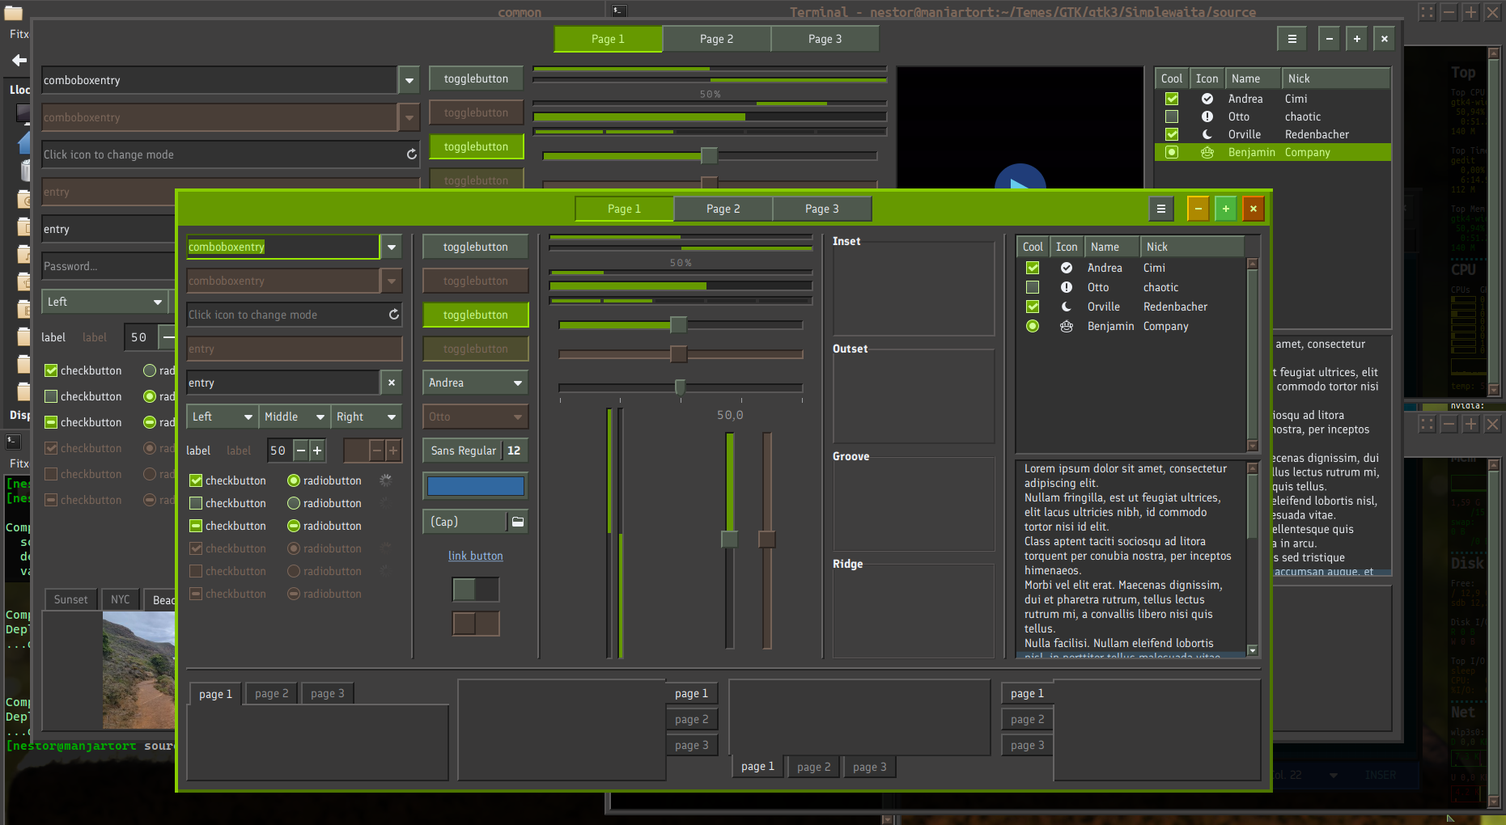
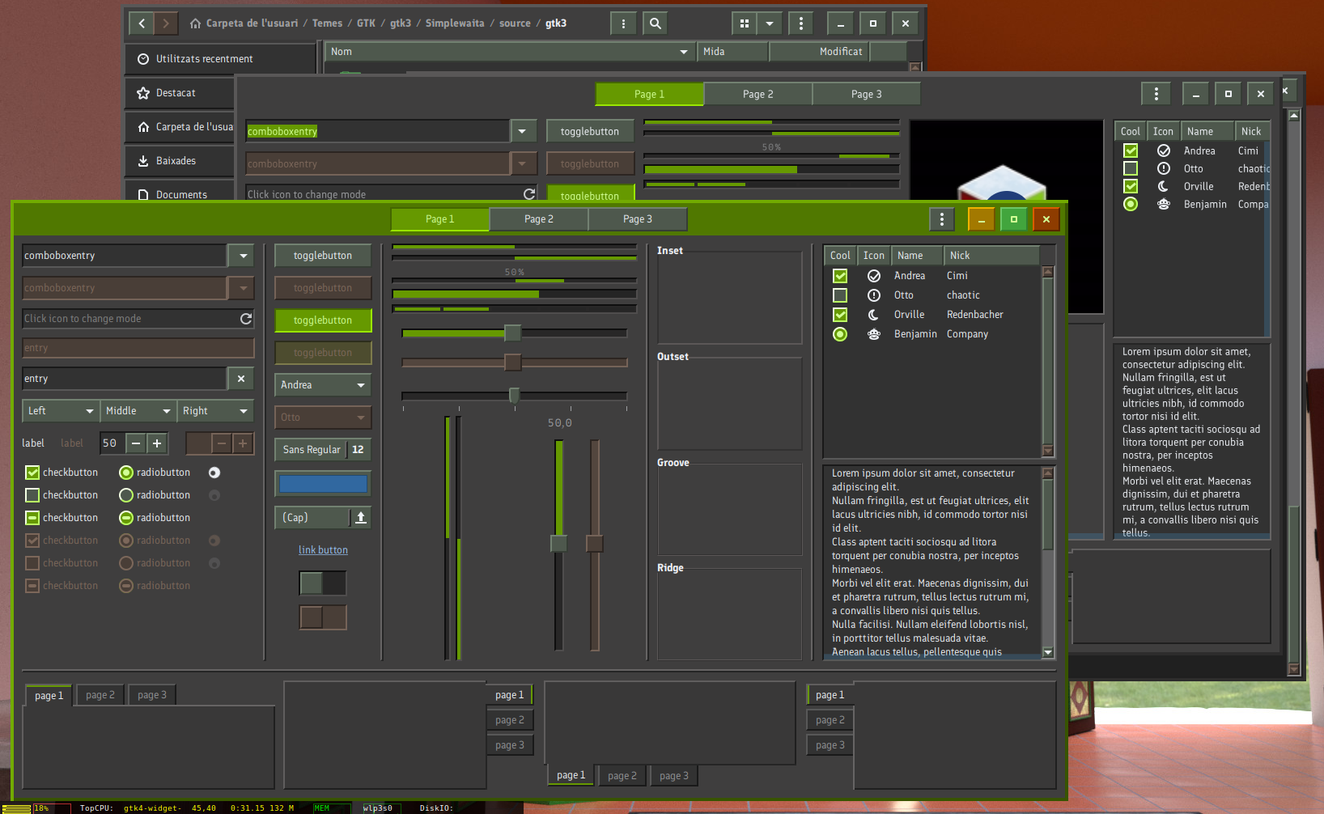
Fixed selection issues in gtk4

diff --git a/gtk-4.0/gtk.css b/gtk-4.0/gtk.css
@@ -8,11 +8,13 @@ $selected_bg_color: if($variant == 'light', #3584e4, darken(#3584e4, 20%));*/
 /*Usually an automatic fg color on these backgrounds should check this value!*/
 /*************************** Check and Radio buttons * */
 /*************************** Check and Radio buttons * */
-calendar > grid > label.day-number:selected, row:selected, columnview.view:selected:focus, columnview.view:selected, treeview.view:selected:focus, treeview.view:selected, modelbutton.flat:selected, gridview > child:selected, flowbox > flowboxchild:selected, .view:selected:focus, iconview:selected:focus, .view:selected, iconview:selected, textview > text:selected:focus, textview > text:selected { background-color: #669900; }
+calendar > grid > label.day-number:selected, row:selected, columnview.view:selected:focus, columnview.view:selected, treeview.view:selected:focus, treeview.view:selected, modelbutton.flat:selected, gridview > child:selected, flowbox > flowboxchild:selected, .view:selected:focus, iconview:selected:focus, .view:selected, iconview:selected, textview > text:selected:focus, textview > text:selected { background-color: #669900; color: #d1ff96; }
 
 label:selected, calendar > grid > label.day-number:selected, row:selected, columnview.view:selected:focus, columnview.view:selected, treeview.view:selected:focus, treeview.view:selected, modelbutton.flat:selected, gridview > child:selected, flowbox > flowboxchild:selected, .view:selected:focus, iconview:selected:focus, .view:selected, iconview:selected, textview > text:selected:focus, textview > text:selected { color: #d1ff96; }
 
 label:disabled > selection, label:disabled:selected, calendar > grid > label.day-number:disabled:selected, row:disabled:selected, columnview.view:disabled:selected, treeview.view:disabled:selected, modelbutton.flat:disabled:selected, gridview > child:disabled:selected, flowbox > flowboxchild:disabled:selected, .view:disabled:selected, iconview:disabled:selected, textview > text:disabled:selected { color: #9ccc4b; }
+
+label:backdrop:selected, calendar > grid > label.day-number:backdrop:selected, row:backdrop:selected, columnview.view:backdrop:selected, treeview.view:backdrop:selected, modelbutton.flat:backdrop:selected, gridview > child:backdrop:selected, flowbox > flowboxchild:backdrop:selected, .view:backdrop:selected, iconview:backdrop:selected, textview > text:backdrop:selected { color: #d1ff96; background-color: #669900; }
 
 /*************** Base States * */
 .background { color: #EDF0F5; background-color: #3f3e3e; }
@@ -33,9 +35,9 @@ image:disabled { -gtk-icon-filter: opacity(0.5); }
 
 textview > text { background-color: transparent; }
 
-textview > text > selection { background-color: #669900; }
+textview > text > selection { background-color: #669900; color: #d1ff96; }
 
-textview > text > selection:focus-within { background-color: rgba(102, 153, 0, 0.3); }
+textview > text > selection:focus-within { background-color: #669900; color: #d1ff96; }
 
 textview:drop(active) { caret-color: #33d17a; }
 
@@ -81,7 +83,7 @@ label:focus:focus-visible { outline-color: rgba(102, 153, 0, 0.5); outline-width
 
 label > selection { background-color: #669900; color: #d1ff96; }
 
-label > selection:focus-within { background-color: rgba(102, 153, 0, 0.3); }
+label > selection:focus-within { background-color: #669900; color: #d1ff96; }
 
 label:disabled { color: #7c675a; }
 
@@ -155,6 +157,8 @@ spinbutton.vertical > text:focus-within > placeholder, spinbutton:focus-within:n
 spinbutton.vertical > text:disabled, spinbutton:disabled:not(.vertical), entry:disabled { color: #7c675a; background-color: #493e37; border-left-color: #2c2521; border-top-color: #2c2521; border-right-color: #756358; border-bottom-color: #756358; }
 
 spinbutton.vertical > text > text > selection, spinbutton:not(.vertical) > text > selection, entry > text > selection { background-color: #669900; color: #d1ff96; }
+
+spinbutton.vertical > text > text > selection:focus-within, spinbutton:not(.vertical) > text > selection:focus-within, entry > text > selection:focus-within { background-color: #669900; color: #d1ff96; }
 
 spinbutton.vertical > text.error, spinbutton.error:not(.vertical), entry.error { color: #CC0000; transition-property: outline, outline-width, outline-offset, outline-color; transition-duration: 300ms; animation-timing-function: ease-in-out; }
 
@@ -250,8 +254,6 @@ row:selected button { border-color: #334d00; }
 
 row:selected button.sidebar-button:not(:active):not(:checked):not(:hover):not(disabled), row:selected button.flat:not(:active):not(:checked):not(:hover):not(disabled) { color: #d1ff96; border-color: transparent; }
 
-row:selected button.sidebar-button:not(:active):not(:checked):not(:hover):not(disabled):backdrop, row:selected button.flat:not(:active):not(:checked):not(:hover):not(disabled):backdrop { color: #323232; }
-
 button.osd { min-width: 26px; min-height: 32px; color: #66cbec; border-radius: 5px; border-width: 2px; color: #66cbec; background-color: #203d79; border-left-color: #305cb6; border-top-color: #305cb6; border-right-color: #152951; border-bottom-color: #152951; box-shadow: none; }
 
 button.osd.image-button { min-width: 30px; }
@@ -338,7 +340,7 @@ button.font > box { border-spacing: 6px; }
 
 button.font > box > box > label { font-weight: bold; }
 
-menubutton.circular button, button.circular { min-width: 32px; min-height: 32px; padding: 0; border-radius: 9999px; }
+menubutton.circular button, button.circular { min-width: 1.6em; min-height: 1.6em; padding: 0; border-radius: 9999px; }
 
 menubutton.circular button label, button.circular label { padding: 0; }
 
@@ -444,9 +446,7 @@ spinbutton.vertical:drop(active) { border-color: transparent; box-shadow: none; 
 
 spinbutton.vertical > text { min-height: 1.6em; min-width: 1.6em; padding: 0; border-radius: 0; }
 
-spinbutton.vertical > text > selection { background-color: #669900; color: transparent; }
-
-spinbutton.vertical > text > selection:focus-within { background-color: rgba(102, 153, 0, 0.3); color: #d1ff96; }
+spinbutton.vertical > text > selection { background-color: #669900; color: #d1ff96; }
 
 spinbutton.vertical > text > block-cursor { color: #323232; background-color: #EDF0F5; }
 
@@ -1220,9 +1220,9 @@ columnview row:not(:selected) cell editablelabel:not(.editing):focus-within { ou
 
 columnview row:not(:selected) cell editablelabel.editing:focus-within { outline: 2px solid #669900; }
 
-columnview row:not(:selected) cell editablelabel.editing text selection { background-color: #669900; color: transparent; }
+columnview row:not(:selected) cell editablelabel.editing text selection { background-color: #669900; color: #d1ff96; }
 
-columnview row:not(:selected) cell editablelabel.editing text selection:focus-within { background-color: rgba(102, 153, 0, 0.3); color: #EDF0F5; }
+columnview row:not(:selected) cell editablelabel.editing text selection:focus-within { background-color: #669900; color: #d1ff96; }
 
 /******************************************************* Rich Lists                                          * Large list usually containing lots of widgets       * https://gitlab.gnome.org/GNOME/gtk/-/issues/3073    * */
 .rich-list { /* rich lists usually containing other widgets than just labels/text */ }

diff --git a/source/gtk4/gtk-new.css b/source/gtk4/gtk-new.css
@@ -8,11 +8,13 @@ $selected_bg_color: if($variant == 'light', #3584e4, darken(#3584e4, 20%));*/
 /*Usually an automatic fg color on these backgrounds should check this value!*/
 /*************************** Check and Radio buttons * */
 /*************************** Check and Radio buttons * */
-calendar > grid > label.day-number:selected, row:selected, columnview.view:selected:focus, columnview.view:selected, treeview.view:selected:focus, treeview.view:selected, modelbutton.flat:selected, gridview > child:selected, flowbox > flowboxchild:selected, .view:selected:focus, iconview:selected:focus, .view:selected, iconview:selected, textview > text:selected:focus, textview > text:selected { background-color: #669900; }
+calendar > grid > label.day-number:selected, row:selected, columnview.view:selected:focus, columnview.view:selected, treeview.view:selected:focus, treeview.view:selected, modelbutton.flat:selected, gridview > child:selected, flowbox > flowboxchild:selected, .view:selected:focus, iconview:selected:focus, .view:selected, iconview:selected, textview > text:selected:focus, textview > text:selected { background-color: #669900; color: #d1ff96; }
 
 label:selected, calendar > grid > label.day-number:selected, row:selected, columnview.view:selected:focus, columnview.view:selected, treeview.view:selected:focus, treeview.view:selected, modelbutton.flat:selected, gridview > child:selected, flowbox > flowboxchild:selected, .view:selected:focus, iconview:selected:focus, .view:selected, iconview:selected, textview > text:selected:focus, textview > text:selected { color: #d1ff96; }
 
 label:disabled > selection, label:disabled:selected, calendar > grid > label.day-number:disabled:selected, row:disabled:selected, columnview.view:disabled:selected, treeview.view:disabled:selected, modelbutton.flat:disabled:selected, gridview > child:disabled:selected, flowbox > flowboxchild:disabled:selected, .view:disabled:selected, iconview:disabled:selected, textview > text:disabled:selected { color: #9ccc4b; }
+
+label:backdrop:selected, calendar > grid > label.day-number:backdrop:selected, row:backdrop:selected, columnview.view:backdrop:selected, treeview.view:backdrop:selected, modelbutton.flat:backdrop:selected, gridview > child:backdrop:selected, flowbox > flowboxchild:backdrop:selected, .view:backdrop:selected, iconview:backdrop:selected, textview > text:backdrop:selected { color: #d1ff96; background-color: #669900; }
 
 /*************** Base States * */
 .background { color: #EDF0F5; background-color: #3f3e3e; }
@@ -33,9 +35,9 @@ image:disabled { -gtk-icon-filter: opacity(0.5); }
 
 textview > text { background-color: transparent; }
 
-textview > text > selection { background-color: #669900; }
+textview > text > selection { background-color: #669900; color: #d1ff96; }
 
-textview > text > selection:focus-within { background-color: rgba(102, 153, 0, 0.3); }
+textview > text > selection:focus-within { background-color: #669900; color: #d1ff96; }
 
 textview:drop(active) { caret-color: #33d17a; }
 
@@ -81,7 +83,7 @@ label:focus:focus-visible { outline-color: rgba(102, 153, 0, 0.5); outline-width
 
 label > selection { background-color: #669900; color: #d1ff96; }
 
-label > selection:focus-within { background-color: rgba(102, 153, 0, 0.3); }
+label > selection:focus-within { background-color: #669900; color: #d1ff96; }
 
 label:disabled { color: #7c675a; }
 
@@ -155,6 +157,8 @@ spinbutton.vertical > text:focus-within > placeholder, spinbutton:focus-within:n
 spinbutton.vertical > text:disabled, spinbutton:disabled:not(.vertical), entry:disabled { color: #7c675a; background-color: #493e37; border-left-color: #2c2521; border-top-color: #2c2521; border-right-color: #756358; border-bottom-color: #756358; }
 
 spinbutton.vertical > text > text > selection, spinbutton:not(.vertical) > text > selection, entry > text > selection { background-color: #669900; color: #d1ff96; }
+
+spinbutton.vertical > text > text > selection:focus-within, spinbutton:not(.vertical) > text > selection:focus-within, entry > text > selection:focus-within { background-color: #669900; color: #d1ff96; }
 
 spinbutton.vertical > text.error, spinbutton.error:not(.vertical), entry.error { color: #CC0000; transition-property: outline, outline-width, outline-offset, outline-color; transition-duration: 300ms; animation-timing-function: ease-in-out; }
 
@@ -250,8 +254,6 @@ row:selected button { border-color: #334d00; }
 
 row:selected button.sidebar-button:not(:active):not(:checked):not(:hover):not(disabled), row:selected button.flat:not(:active):not(:checked):not(:hover):not(disabled) { color: #d1ff96; border-color: transparent; }
 
-row:selected button.sidebar-button:not(:active):not(:checked):not(:hover):not(disabled):backdrop, row:selected button.flat:not(:active):not(:checked):not(:hover):not(disabled):backdrop { color: #323232; }
-
 button.osd { min-width: 26px; min-height: 32px; color: #66cbec; border-radius: 5px; border-width: 2px; color: #66cbec; background-color: #203d79; border-left-color: #305cb6; border-top-color: #305cb6; border-right-color: #152951; border-bottom-color: #152951; box-shadow: none; }
 
 button.osd.image-button { min-width: 30px; }
@@ -338,7 +340,7 @@ button.font > box { border-spacing: 6px; }
 
 button.font > box > box > label { font-weight: bold; }
 
-menubutton.circular button, button.circular { min-width: 32px; min-height: 32px; padding: 0; border-radius: 9999px; }
+menubutton.circular button, button.circular { min-width: 1.6em; min-height: 1.6em; padding: 0; border-radius: 9999px; }
 
 menubutton.circular button label, button.circular label { padding: 0; }
 
@@ -444,9 +446,7 @@ spinbutton.vertical:drop(active) { border-color: transparent; box-shadow: none; 
 
 spinbutton.vertical > text { min-height: 1.6em; min-width: 1.6em; padding: 0; border-radius: 0; }
 
-spinbutton.vertical > text > selection { background-color: #669900; color: transparent; }
-
-spinbutton.vertical > text > selection:focus-within { background-color: rgba(102, 153, 0, 0.3); color: #d1ff96; }
+spinbutton.vertical > text > selection { background-color: #669900; color: #d1ff96; }
 
 spinbutton.vertical > text > block-cursor { color: #323232; background-color: #EDF0F5; }
 
@@ -1220,9 +1220,9 @@ columnview row:not(:selected) cell editablelabel:not(.editing):focus-within { ou
 
 columnview row:not(:selected) cell editablelabel.editing:focus-within { outline: 2px solid #669900; }
 
-columnview row:not(:selected) cell editablelabel.editing text selection { background-color: #669900; color: transparent; }
+columnview row:not(:selected) cell editablelabel.editing text selection { background-color: #669900; color: #d1ff96; }
 
-columnview row:not(:selected) cell editablelabel.editing text selection:focus-within { background-color: rgba(102, 153, 0, 0.3); color: #EDF0F5; }
+columnview row:not(:selected) cell editablelabel.editing text selection:focus-within { background-color: #669900; color: #d1ff96; }
 
 /******************************************************* Rich Lists                                          * Large list usually containing lots of widgets       * https://gitlab.gnome.org/GNOME/gtk/-/issues/3073    * */
 .rich-list { /* rich lists usually containing other widgets than just labels/text */ }

diff --git a/gtk-3.0/gtk.css b/gtk-3.0/gtk.css
@@ -1,11 +1,13 @@
 /*Usually an automatic fg color on these backgrounds should check this value!*/
 /*************************** Check and Radio buttons * */
 /*************************** Check and Radio buttons * */
-calendar:selected, row:selected, treeview.view:selected:focus, treeview.view:selected, modelbutton.flat:selected, .menuitem.button.flat:selected, spinbutton:not(.vertical) selection, entry selection, flowbox flowboxchild:selected, .view text selection:focus, iconview text selection:focus, .view text selection, iconview text selection, textview text selection:focus, textview text selection, .view:selected:focus, iconview:selected:focus, .view:selected, iconview:selected, .view text:selected:focus, iconview text:selected:focus, textview text:selected:focus, .view text:selected, iconview text:selected, textview text:selected { background-color: #669900; }
+calendar:selected, row:selected, treeview.view:selected:focus, treeview.view:selected, modelbutton.flat:selected, .menuitem.button.flat:selected, spinbutton:not(.vertical) selection, entry selection, flowbox flowboxchild:selected, .view text selection:focus, iconview text selection:focus, .view text selection, iconview text selection, textview text selection:focus, textview text selection, .view:selected:focus, iconview:selected:focus, .view:selected, iconview:selected, .view text:selected:focus, iconview text:selected:focus, textview text:selected:focus, .view text:selected, iconview text:selected, textview text:selected { background-color: #669900; color: #d1ff96; }
 
 .selection-mode button.titlebutton, label:selected, calendar:selected, row:selected, treeview.view:selected:focus, treeview.view:selected, modelbutton.flat:selected, .menuitem.button.flat:selected, spinbutton:not(.vertical) selection, entry selection, flowbox flowboxchild:selected, .view text selection:focus, iconview text selection:focus, .view text selection, iconview text selection, textview text selection:focus, textview text selection, .view:selected:focus, iconview:selected:focus, .view:selected, iconview:selected, .view text:selected:focus, iconview text:selected:focus, textview text:selected:focus, .view text:selected, iconview text:selected, textview text:selected { color: #d1ff96; }
 
 label:disabled selection, .selection-mode button.titlebutton:disabled, label:disabled:selected, calendar:disabled:selected, row:disabled:selected, treeview.view:disabled:selected, modelbutton.flat:disabled:selected, .menuitem.button.flat:disabled:selected, spinbutton:not(.vertical) selection:disabled, entry selection:disabled, flowbox flowboxchild:disabled:selected, .view text selection:disabled, iconview text selection:disabled, textview text selection:disabled:focus, textview text selection:disabled, .view:disabled:selected, iconview:disabled:selected, .view text:disabled:selected, iconview text:disabled:selected, textview text:disabled:selected { color: #9ccc4b; }
+
+.selection-mode button.titlebutton:backdrop, label:backdrop:selected, calendar:backdrop:selected, row:backdrop:selected, treeview.view:backdrop:selected, modelbutton.flat:backdrop:selected, .menuitem.button.flat:backdrop:selected, spinbutton:not(.vertical) selection:backdrop, entry selection:backdrop, flowbox flowboxchild:backdrop:selected, .view text selection:backdrop, iconview text selection:backdrop, textview text selection:backdrop:focus, textview text selection:backdrop, .view:backdrop:selected, iconview:backdrop:selected, .view text:backdrop:selected, iconview text:backdrop:selected, textview text:backdrop:selected { color: #d1ff96; background-color: #669900; }
 
 * { padding: 0; -GtkToolButton-icon-spacing: 4; -GtkTextView-error-underline-color: #CC0000; -GtkScrolledWindow-scrollbar-spacing: 0; -GtkToolItemGroup-expander-size: 11; -GtkWidget-text-handle-width: 20; -GtkWidget-text-handle-height: 24; -GtkDialog-button-spacing: 4; -GtkDialog-action-area-border: 0; outline-color: alpha(currentColor,0.3); outline-style: dashed; outline-offset: -3px; outline-width: 1px; -gtk-outline-radius: 0px; -gtk-secondary-caret-color: #669900; }
 

diff --git a/source/gtk3/gtk-new.css b/source/gtk3/gtk-new.css
@@ -1,11 +1,13 @@
 /*Usually an automatic fg color on these backgrounds should check this value!*/
 /*************************** Check and Radio buttons * */
 /*************************** Check and Radio buttons * */
-calendar:selected, row:selected, treeview.view:selected:focus, treeview.view:selected, modelbutton.flat:selected, .menuitem.button.flat:selected, spinbutton:not(.vertical) selection, entry selection, flowbox flowboxchild:selected, .view text selection:focus, iconview text selection:focus, .view text selection, iconview text selection, textview text selection:focus, textview text selection, .view:selected:focus, iconview:selected:focus, .view:selected, iconview:selected, .view text:selected:focus, iconview text:selected:focus, textview text:selected:focus, .view text:selected, iconview text:selected, textview text:selected { background-color: #669900; }
+calendar:selected, row:selected, treeview.view:selected:focus, treeview.view:selected, modelbutton.flat:selected, .menuitem.button.flat:selected, spinbutton:not(.vertical) selection, entry selection, flowbox flowboxchild:selected, .view text selection:focus, iconview text selection:focus, .view text selection, iconview text selection, textview text selection:focus, textview text selection, .view:selected:focus, iconview:selected:focus, .view:selected, iconview:selected, .view text:selected:focus, iconview text:selected:focus, textview text:selected:focus, .view text:selected, iconview text:selected, textview text:selected { background-color: #669900; color: #d1ff96; }
 
 .selection-mode button.titlebutton, label:selected, calendar:selected, row:selected, treeview.view:selected:focus, treeview.view:selected, modelbutton.flat:selected, .menuitem.button.flat:selected, spinbutton:not(.vertical) selection, entry selection, flowbox flowboxchild:selected, .view text selection:focus, iconview text selection:focus, .view text selection, iconview text selection, textview text selection:focus, textview text selection, .view:selected:focus, iconview:selected:focus, .view:selected, iconview:selected, .view text:selected:focus, iconview text:selected:focus, textview text:selected:focus, .view text:selected, iconview text:selected, textview text:selected { color: #d1ff96; }
 
 label:disabled selection, .selection-mode button.titlebutton:disabled, label:disabled:selected, calendar:disabled:selected, row:disabled:selected, treeview.view:disabled:selected, modelbutton.flat:disabled:selected, .menuitem.button.flat:disabled:selected, spinbutton:not(.vertical) selection:disabled, entry selection:disabled, flowbox flowboxchild:disabled:selected, .view text selection:disabled, iconview text selection:disabled, textview text selection:disabled:focus, textview text selection:disabled, .view:disabled:selected, iconview:disabled:selected, .view text:disabled:selected, iconview text:disabled:selected, textview text:disabled:selected { color: #9ccc4b; }
+
+.selection-mode button.titlebutton:backdrop, label:backdrop:selected, calendar:backdrop:selected, row:backdrop:selected, treeview.view:backdrop:selected, modelbutton.flat:backdrop:selected, .menuitem.button.flat:backdrop:selected, spinbutton:not(.vertical) selection:backdrop, entry selection:backdrop, flowbox flowboxchild:backdrop:selected, .view text selection:backdrop, iconview text selection:backdrop, textview text selection:backdrop:focus, textview text selection:backdrop, .view:backdrop:selected, iconview:backdrop:selected, .view text:backdrop:selected, iconview text:backdrop:selected, textview text:backdrop:selected { color: #d1ff96; background-color: #669900; }
 
 * { padding: 0; -GtkToolButton-icon-spacing: 4; -GtkTextView-error-underline-color: #CC0000; -GtkScrolledWindow-scrollbar-spacing: 0; -GtkToolItemGroup-expander-size: 11; -GtkWidget-text-handle-width: 20; -GtkWidget-text-handle-height: 24; -GtkDialog-button-spacing: 4; -GtkDialog-action-area-border: 0; outline-color: alpha(currentColor,0.3); outline-style: dashed; outline-offset: -3px; outline-width: 1px; -gtk-outline-radius: 0px; -gtk-secondary-caret-color: #669900; }
 

diff --git a/source/gtk4/_common.scss b/source/gtk4/_common.scss
@@ -61,10 +61,12 @@ textview {
     background-color: transparent;
 
     > selection {
-      background-color: $backdrop_selected_bg_color;
+      background-color: $selected_bg_color;
+      color: $selected_fg_color;
 
       &:focus-within {
-         background-color: $selected_text_bg_color;
+         background-color: $selected_bg_color;
+         color: $selected_fg_color;
       }
     }
   }
@@ -152,10 +154,11 @@ label {
   &:selected { @extend %nobg_selected_items; }
 
   > selection {
-    background-color: $backdrop_selected_bg_color;
+    background-color: $selected_bg_color;
     color: $selected_fg_color;
     &:focus-within {
-       background-color: $selected_text_bg_color;
+       background-color: $selected_bg_color;
+       color: $selected_fg_color;
     }
   }
 
@@ -326,8 +329,8 @@ entry {
       background-color: $selected_bg_color;
       color: $selected_fg_color;
       &:focus-within {
-        //background-color: $selected_text_bg_color;
-        //color: $fg_color;
+        background-color: $selected_bg_color;
+        color: $selected_fg_color;
       }
     }
 
@@ -547,7 +550,7 @@ button {
           color: $selected_fg_color;
           border-color: transparent;
 
-          &:backdrop { color: if($variant=='light', $backdrop_base_color, $backdrop_fg_color); }
+          //&:backdrop { color: if($variant=='light', $backdrop_base_color, $backdrop_fg_color); }
         }
       }
     }
@@ -706,8 +709,8 @@ button {
 
   menubutton.circular &,
   &.circular { // force circular button shape
-    min-width: 32px;
-    min-height: 32px;
+    min-width: $button_min_height;
+    min-height: $button_min_height;
     padding: 0;
     border-radius: 9999px;
 
@@ -1074,12 +1077,12 @@ spinbutton {
       border-radius: 0;
 
       > selection {
-        background-color: $backdrop_selected_bg_color;
-        color: transparent;
-        &:focus-within {
-          background-color: $selected_text_bg_color;
-          color: $selected_fg_color;
-        }
+        background-color: $selected_bg_color;
+        color: $selected_fg_color;
+        //&:focus-within {
+        //  background-color: $selected_text_bg_color;
+        //  color: $selected_fg_color;
+        //}
       }
       > block-cursor { @include entry(block_cursor); }
     }
@@ -2837,11 +2840,11 @@ columnview row:not(:selected) cell editablelabel.editing:focus-within {
 }
 
 columnview row:not(:selected) cell editablelabel.editing text selection {
-  background-color: $backdrop_selected_bg_color;
-  color: transparent;
+  background-color: $selected_bg_color;
+  color: $selected_fg_color;
   &:focus-within {
-    background-color: $selected_text_bg_color;
-    color: $fg_color;
+    background-color: $selected_bg_color;
+    color: $selected_fg_color;
   }
 }
 

diff --git a/source/common/common_common.scss b/source/common/common_common.scss
@@ -38,7 +38,7 @@ $popover_radius: $window_radius;
 
 %selected_items {
   background-color: $selected_bg_color;
-
+  color: $selected_fg_color;
   @at-root %nobg_selected_items, & {
     color: $selected_fg_color;
 
@@ -46,9 +46,11 @@ $popover_radius: $window_radius;
     &:disabled { color: mix($selected_fg_color, $selected_bg_color, 50%); }
 
     @at-root %selected_items_backdrop,
-    &:backdrop { //Simplewaita does not like backdrop changes except for headerbar and window decoration
-      //color: $backdrop_selected_fg_color;
-      //background-color: $backdrop_selected_bg_color;
+    &:backdrop { 
+      //Simplewaita does not like backdrop changes except for headerbar and window decoration
+      //however, some problems may arise if this is not applied.
+      color: $selected_fg_color;
+      background-color: $selected_bg_color;
 
       //&:disabled { color: mix($backdrop_selected_fg_color, $selected_bg_color, 30%); }
     }

diff --git a/README.md b/README.md
@@ -36,7 +36,7 @@ Big previews:
 
 ![gtk3 widget page 2](previews/gtk3wf-2.png)
 
-![gtk3 widget page 3](previews/gtk3wf-3.png)
+![gtk3 widget page 3](previews/gtk4wf-3.png)
 
 ![gtk2 preview](previews/gtk2.png)
 
